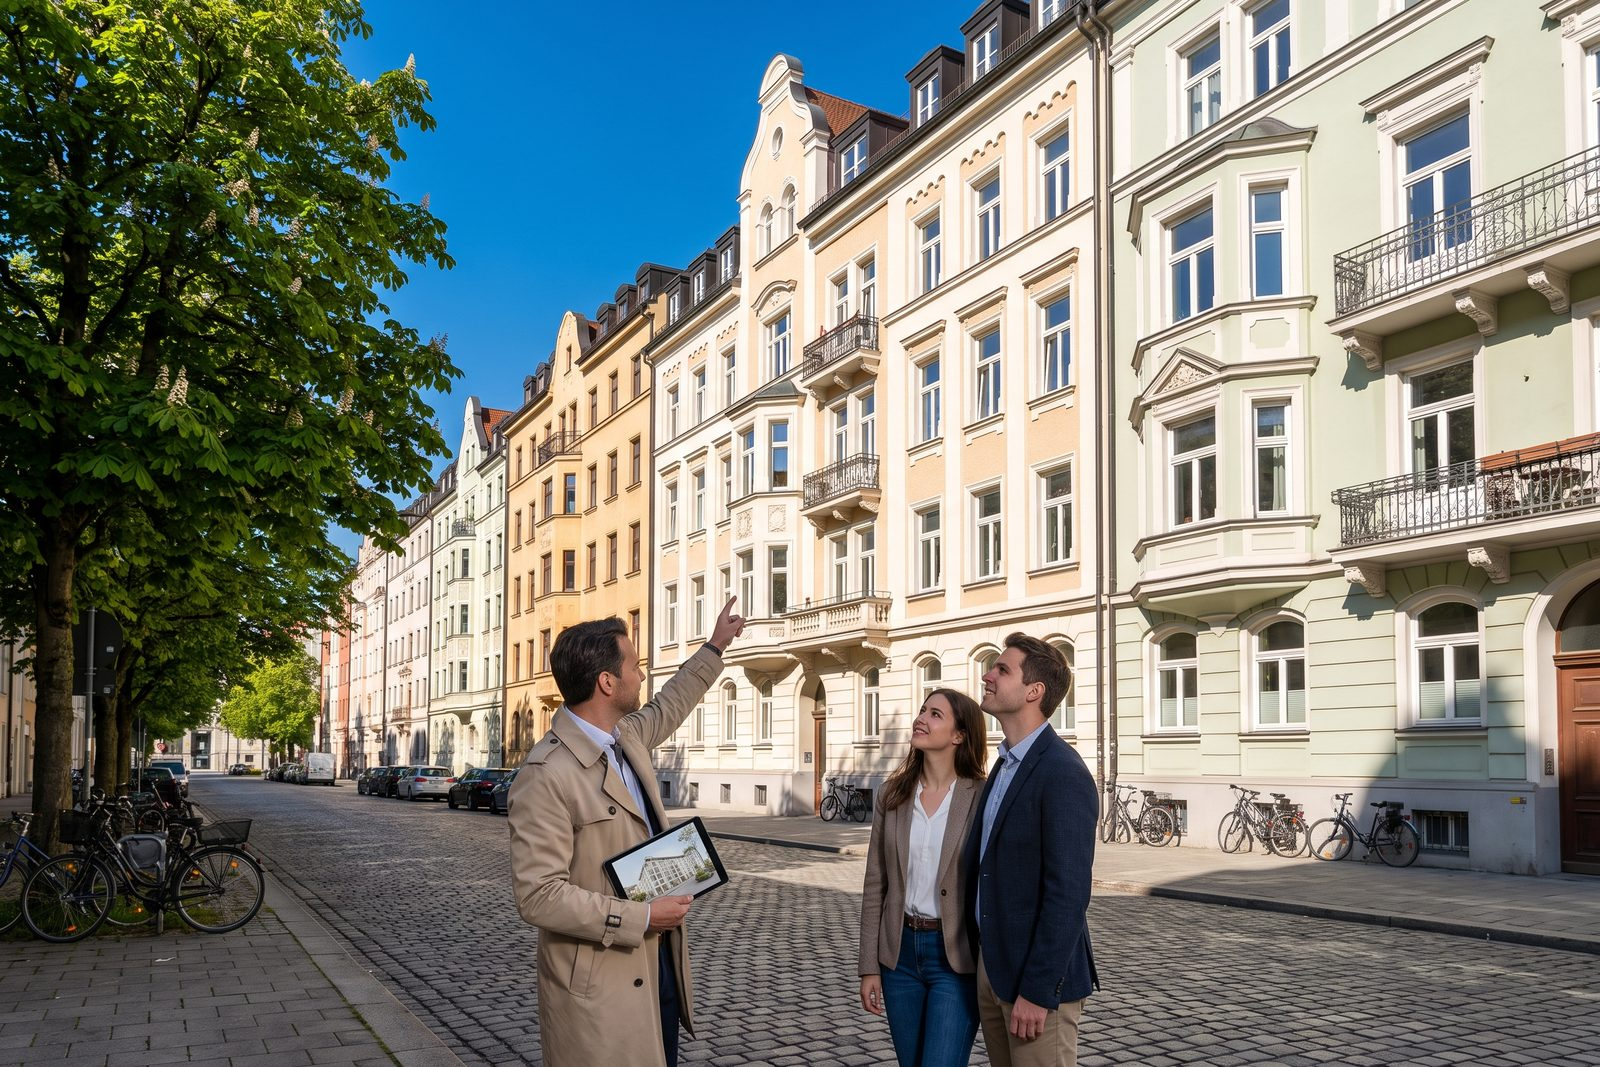
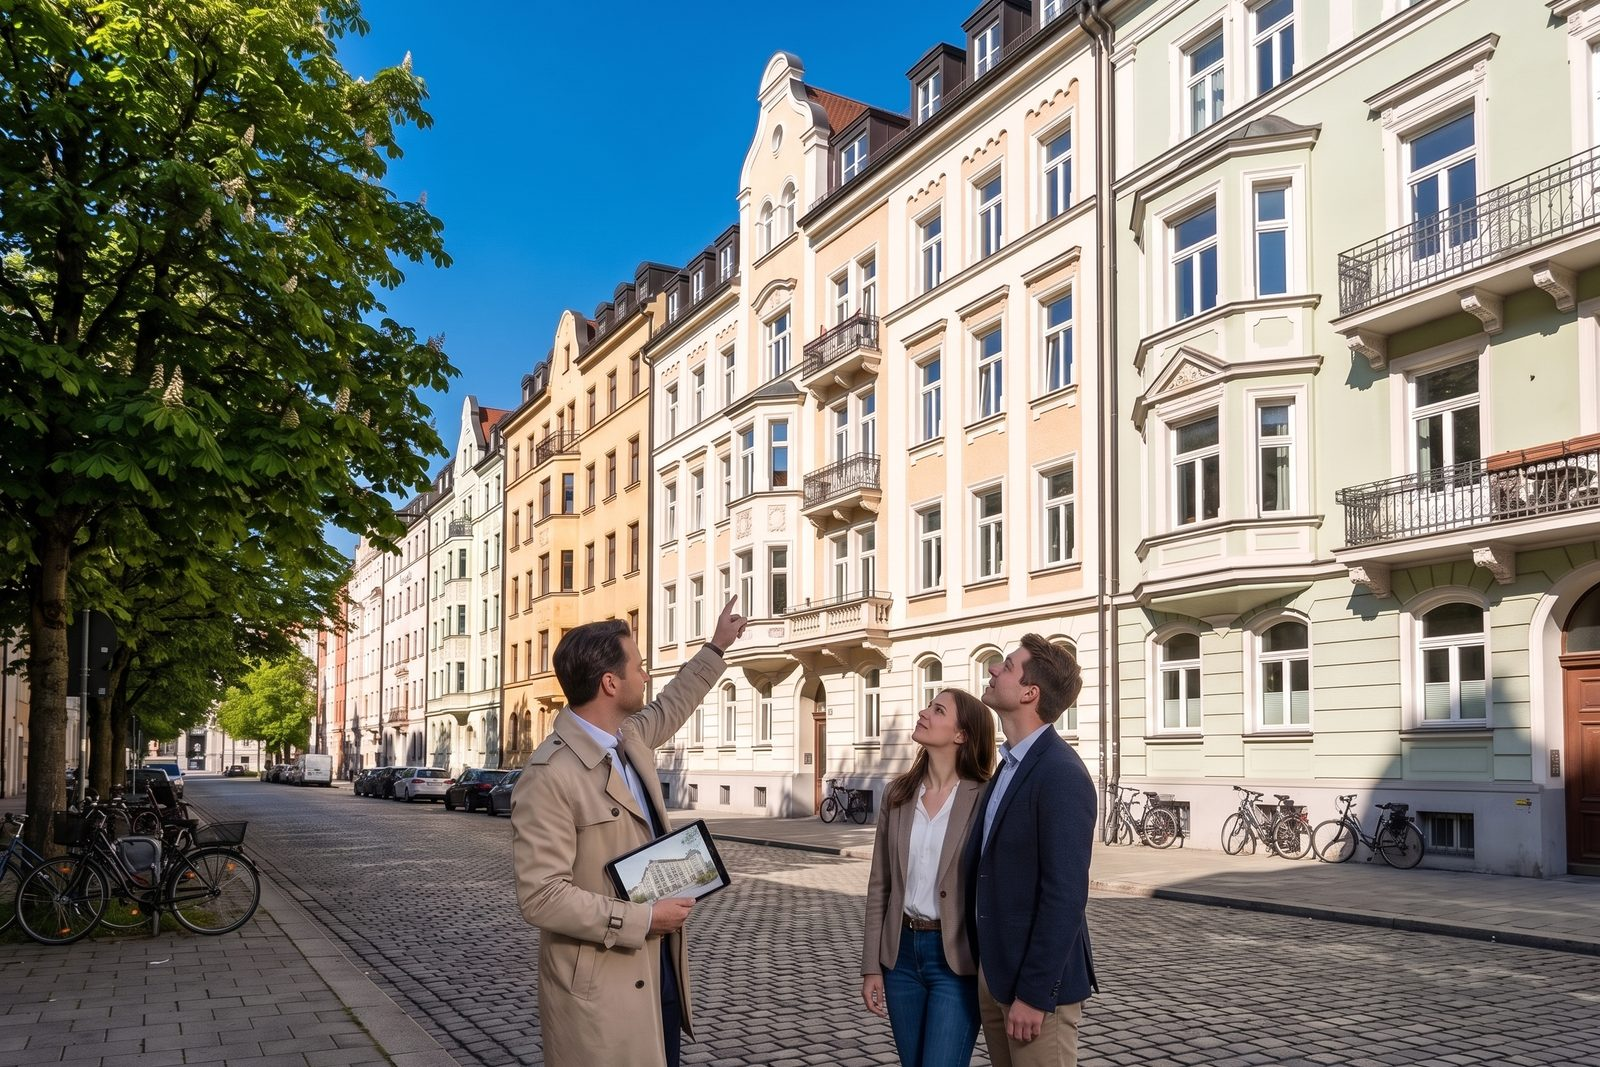
/denver/ hero veil off; /munich/ S–04 image: couple look at the building
Denver: Samuel read the .hero--veil as a white vignette over the loop, so
the type now runs straight over the video as on Munich and Dubai.
Munich: sector-realestate re-edited image-to-image on the same frame — the
couple now look up at the facade the agent points to, not at him.

diff --git a/denver/index.html b/denver/index.html
@@ -125,7 +125,7 @@
   <!-- ============================================================
        02 — HERO
        ============================================================ -->
-  <section class="hero hero--veil" aria-labelledby="hero-h">
+  <section class="hero" aria-labelledby="hero-h">
 
     <div class="hero__bg">
       <!-- Poster is the video's own first frame, pulled from Vimeo. It holds the

diff --git a/Landing page/denver/build.py b/Landing page/denver/build.py
@@ -43,9 +43,10 @@ b = rep(b, '<span class="nav__label">Dubai</span>', '<span class="nav__label">De
 
 # ── hero: Samuel's Vimeo loop (Denver_Land, 1227693782, 14 s; replaced 1227691546 the same day), poster = its first frame ──
 # Poster pulled from Vimeo's oEmbed thumbnail at 1920×1080 into
-# denver/images/den-hero-poster.{jpg,webp}. Whole-frame mean 171/255 but the
-# text column (left 55%, mid-height) is 135 — snow above, dark forest under
-# the headline — where Munich and Dubai measure 224–230. So the veil stays on.
+# denver/images/den-hero-poster.{jpg,webp}. Whole-frame mean 171/255; the
+# text column (left 55%, mid-height) is 135 — snow above, forest under the
+# headline. The veil was tried and Samuel asked for it off (17 Sep): the
+# hero runs the type straight over the loop, as Munich and Dubai do.
 hero_bg = b[b.index('    <div class="hero__bg">'):b.index('    <!-- Cursor colour-reveal')]
 new_bg = hero_bg.replace('dxb-hero-poster', 'den-hero-poster').replace('1226928370', '1227693782').replace('title="Dubai hero"', 'title="Denver hero"')
 # Dubai's source carries the poster comment twice; keep one.
@@ -56,7 +57,6 @@ assert new_bg.count(dup) == 2
 new_bg = new_bg.replace(dup, '', 1)
 b = b.replace(hero_bg, new_bg, 1)
 assert '1227693782' in b and 'den-hero-poster.webp' in b and 'Dubai' not in new_bg
-b = rep(b, '<section class="hero" aria-labelledby="hero-h">', '<section class="hero hero--veil" aria-labelledby="hero-h">')
 b = rep(b, '<div class="slabel slabel--hero">Dubai</div>', '<div class="slabel slabel--hero">Denver</div>')
 b = rep(b, 'Dubai&rsquo;s next companies<br>', 'Denver&rsquo;s next companies<br>')
 b = sub1(b, r'<p class="lede hero__lede">.*?</p>',

diff --git a/Landing page/denver/03-IMAGES.md b/Landing page/denver/03-IMAGES.md
@@ -33,7 +33,7 @@ pass; the hero poster is Samuel's footage, not generated. Originals in the sessi
 
 | Slot | File | Mean | Subject |
 |---|---|---|---|
-| Hero 16/9 | `den-hero-poster` | 171 | Vimeo loop 1227693782 (Denver_Land, 14 s; replaced 1227691546 the same day), added 17 Sep; poster is its first frame at 1920×1080 — an aerial of a ski slope, spruce and a forested ridge under a clear sky. Whole frame 171 but the text column (left 55%, mid-height) is 135 against Munich/Dubai's 224–230, so **the veil stays on** |
+| Hero 16/9 | `den-hero-poster` | 171 | Vimeo loop 1227693782 (Denver_Land, 14 s; replaced 1227691546 the same day), added 17 Sep; poster is its first frame at 1920×1080 — an aerial of a ski slope, spruce and a forested ridge under a clear sky. Whole frame 171 but the text column (left 55%, mid-height) is 135 against Munich/Dubai's 224–230, **veil off** at Samuel's ask (it read as a white vignette over the loop) — type runs straight over the video as on Munich and Dubai |
 | S–01 3/2 | `sector-startups-1600` | 85 | Bright: three founders in flannel at a long timber table in a red-brick RiNo loft, hard sun through factory windows, printed screens on the brick, mountains beyond |
 | S–02 4/5 | `sector-aerospace-1600` | 63 | Dark: engineer at a console of telemetry screens in a mission-ops room, a satellite bus on a stand behind, alpenglow on the peaks through the window |
 | S–03 1/1 | `sector-outdoor-1600` | 72 | Dark: customer in a down jacket weighing a pack at a concrete counter in a flagship outdoor store at blue hour, pendant lamps, the mountain silhouette through the shopfront |

diff --git a/Landing page/munich/03-IMAGES.md b/Landing page/munich/03-IMAGES.md
@@ -56,7 +56,7 @@ in place (copies in the session scratchpad).
 | S–01 3/2 | `sector-startups-1600` | Bright | Founding team in a Werksviertel brick hall, a woman sketching a flow on a glass wall, sawtooth skylights |
 | S–02 4/5 | `sector-mobility-1600` | Dark | Engineer at a glowing console beside a car body on a lift, robots paused, the Alps through the glass at dusk |
 | S–03 1/1 | `sector-insurance-1600` | Dark | Advisor and a couple at a walnut table in an insurance HQ, Frauenkirche and Rathaus lit through the windows (the one deliberate landmark, as the network image has it) |
-| S–04 3/2 | `sector-realestate-1600` | Bright | Agent with a tablet showing a couple a Maxvorstadt Altbau street, cream and ochre stucco, chestnuts, blue sky |
+| S–04 3/2 | `sector-realestate-1600` | Bright | Agent with a tablet showing a couple a Maxvorstadt Altbau street, cream and ochre stucco, chestnuts, blue sky. Re-edited 17 Sep (image-to-image on the same frame): the couple now look up at the façade he points to, not at him |
 | A–01 4/3 | `bfsg-audit-800` | Bright | Designer and accessibility consultant at an Altbau window, contrast overlay on the monitor |
 | A–02 4/3 | `bfsg-remediation-800` | Dark | Developer at two monitors in the evening, brass lamp, the dusk street outside |
 | A–03 1/1 | `bfsg-system-1200` | Bright | Two designers before a grid of printed components under a sawtooth roof |
